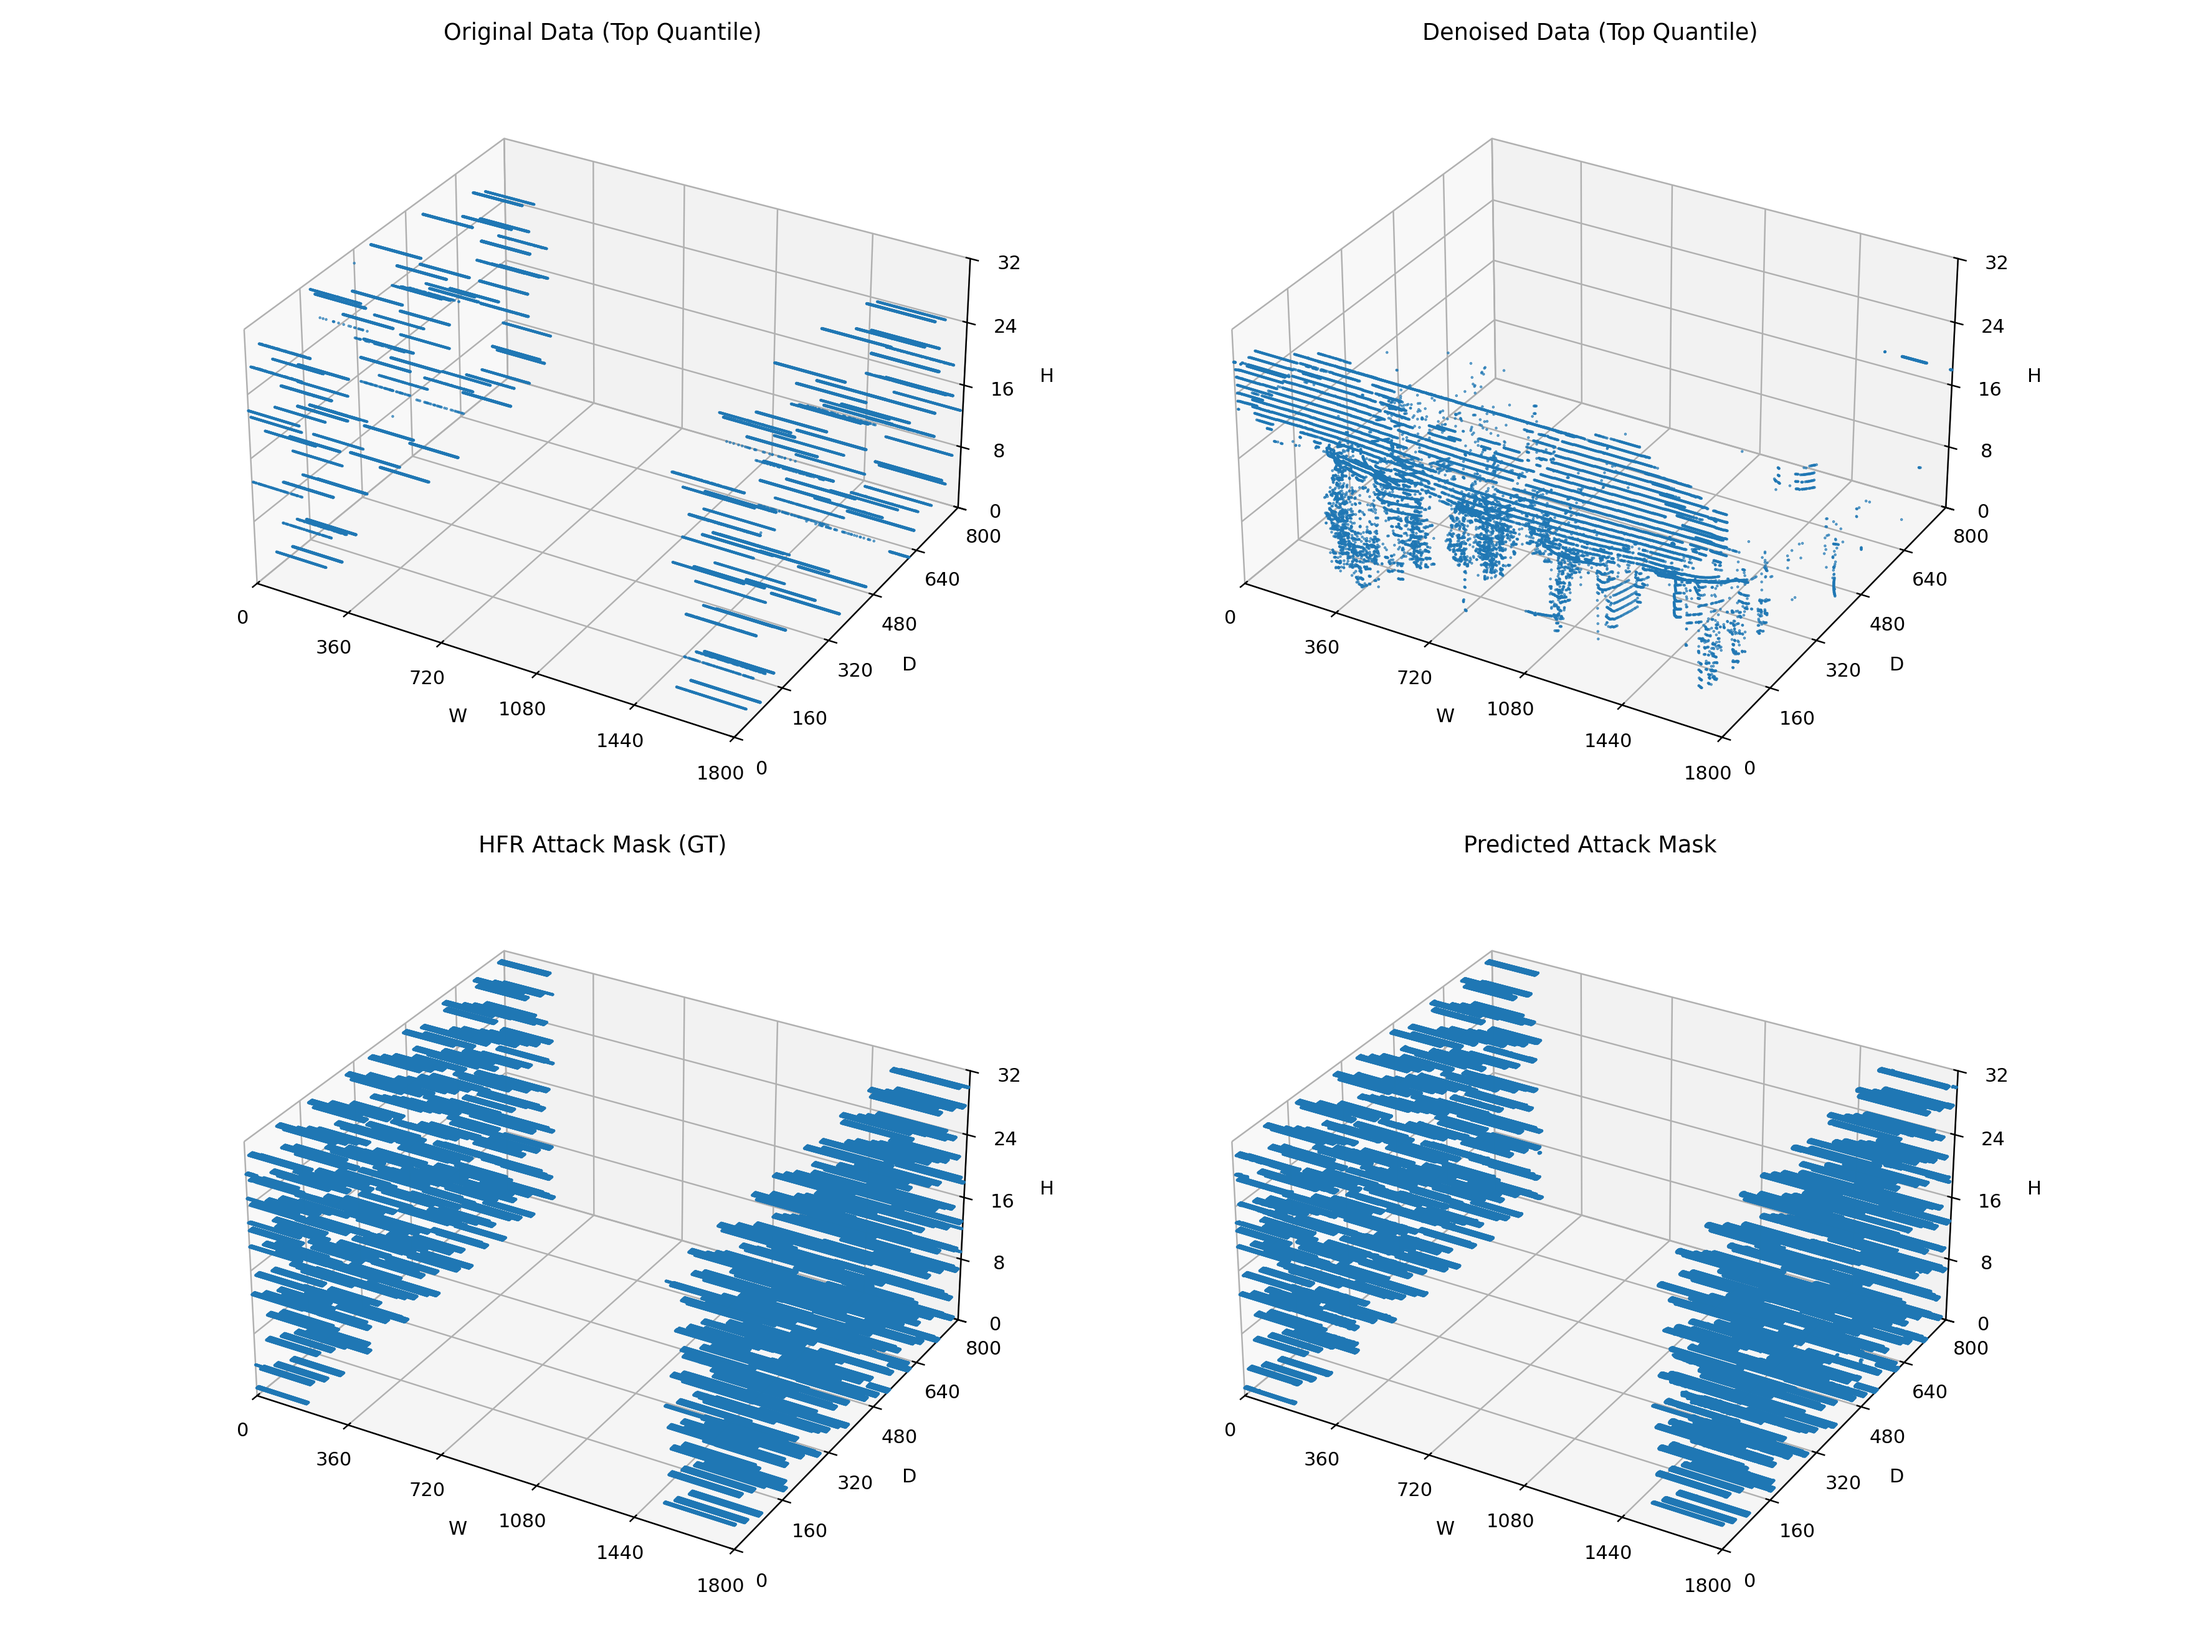
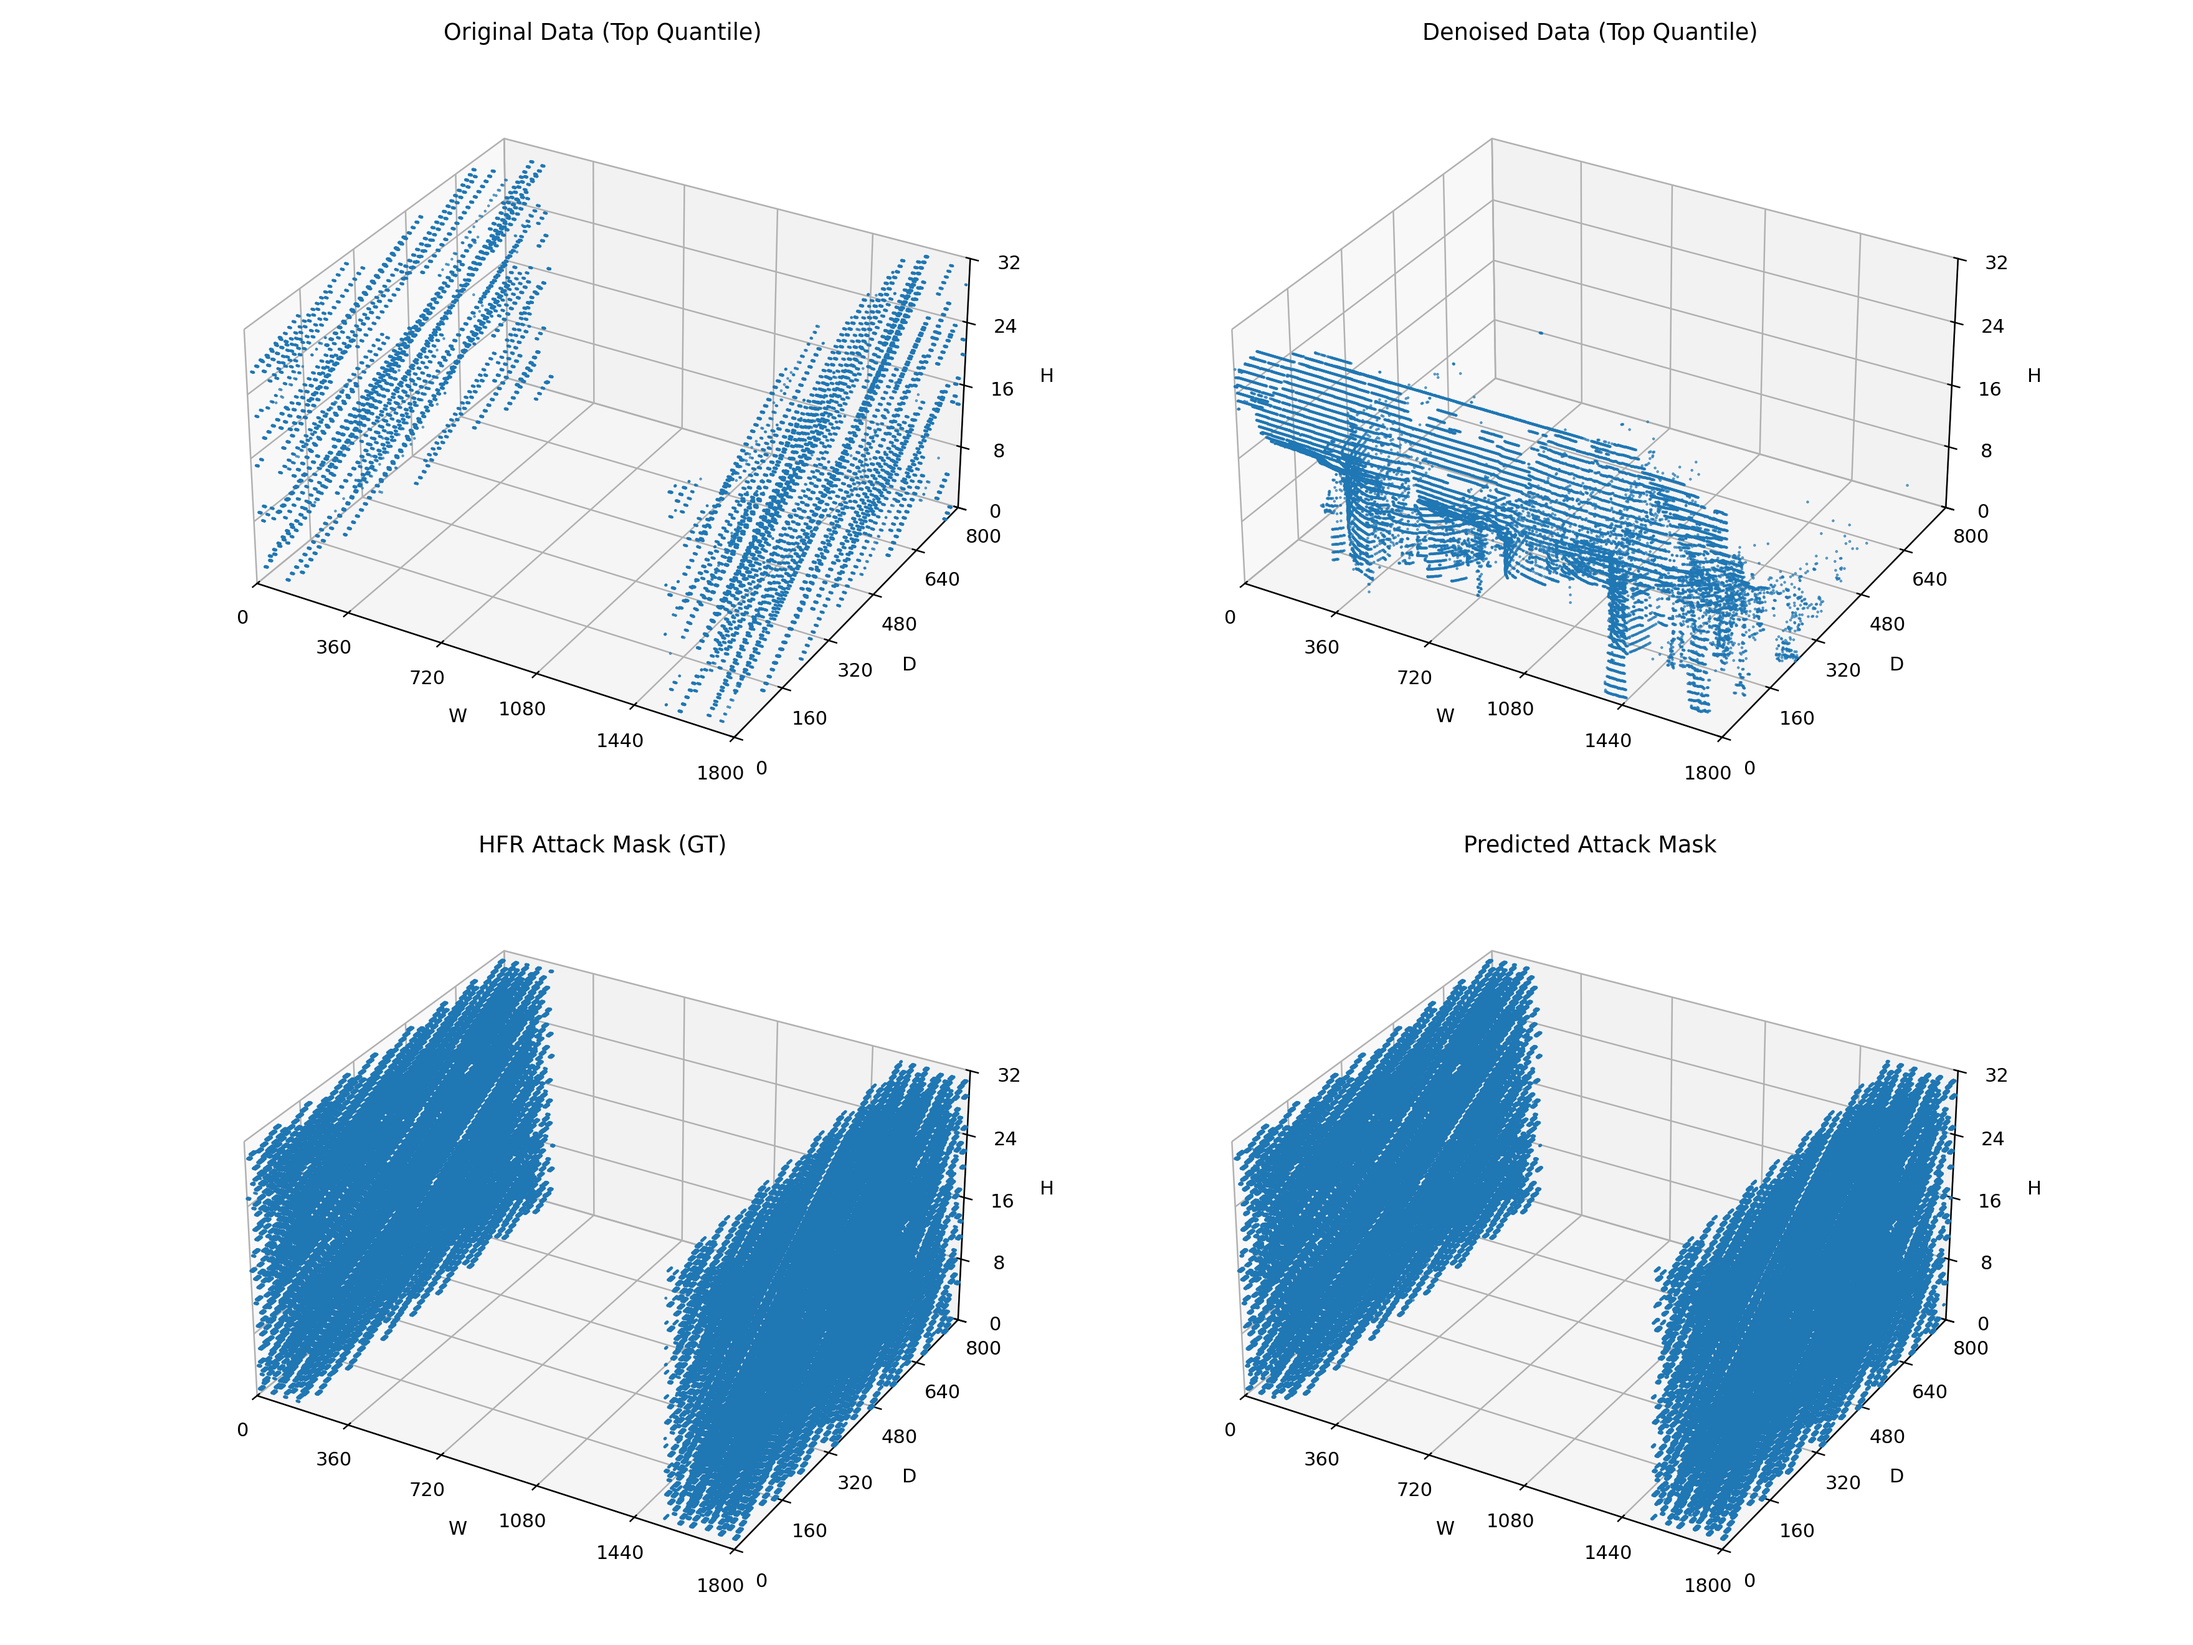
for pipeline

diff --git a/pipeline/denoise_pipeline.py b/pipeline/denoise_pipeline.py
@@ -1,6 +1,10 @@
 import sys
-sys.path.append("/home/zhang/Project/HFR_Denoise")
+import time
+import os
+# Add the parent directory of 'pipeline' (which is HFR_Denoise) to the path
+sys.path.append(os.path.dirname(os.path.dirname(os.path.abspath(__file__))))
 import torch
+import numpy as np
 from model.denoise_model import DenoiseModel
 from utils.utils import *
 from utils.plot_utils import *
@@ -64,33 +68,67 @@ class DenoisePipeline:
         return out, mask
 
 
+def run_denoising(defender: DenoisePipeline, signals: np.ndarray) -> np.ndarray:
+    """
+    Denoises a batch of LiDAR signals.
+    """
+    clean_xs = []
+    total_inference_time = 0.0
+    num_frames = len(signals)
+
+    for i in range(num_frames):
+        print(f"Denoising signal {i + 1}/{num_frames}...")
+        x_np = signals[i]
+        x = torch.from_numpy(x_np).float().unsqueeze(0)
+        x = x.to(defender.device, non_blocking=True)
+
+        inference_start_time = time.time()
+        clean_x, _ = defender.denoise(x)
+        inference_end_time = time.time()
+        total_inference_time += (inference_end_time - inference_start_time)
+
+        clean_x_np = clean_x.squeeze(0).detach().cpu().numpy()
+        clean_xs.append(clean_x_np)
+    
+    if num_frames > 0:
+        avg_inference_time = total_inference_time / num_frames
+        print(f"Average inference time per frame: {avg_inference_time:.4f} seconds")
+
+    return np.array(clean_xs)
+
+
 if __name__ == "__main__":
-    defender = DenoisePipeline(ckpt_path="./run/0923_dn_dim32_lat_attn.pt")
+    import argparse
+    parser = argparse.ArgumentParser(description="Denoise LiDAR signals from an .npz file.")
+    parser.add_argument("--input-npz", type=str, required=True, help="Path to the input .npz file containing 'signals'.")
+    parser.add_argument("--output-npz", type=str, default="denoised_lidar_signals_batch.npz", help="Path to save the output .npz file.")
+    parser.add_argument("--ckpt-path", type=str, required=True, help="Path to the model checkpoint file.")
+    parser.add_argument("--num-frames", type=int, default=None, help="Number of frames to process from the input file.")
 
-    # Prepare Data Here
-    signals, labels = load_data("/data2/yoshida/hist_matrix_test/lidar_signal.npz")
+    args = parser.parse_args()
 
-    x = signals[0]
-    x = torch.from_numpy(x).float().unsqueeze(0)
-    x = x.to(defender.device, non_blocking=True)
+    defender = DenoisePipeline(ckpt_path=args.ckpt_path)
 
-    clean_x, mask = defender.denoise(x)
-    clean_x = clean_x.squeeze(0).detach().cpu().numpy()
-    hfr_mask = mask.squeeze(0).detach().cpu().numpy().astype(np.bool_)
+    print("Loading Data...")
+    data = np.load(args.input_npz)
+    signals = data['signals']
+    offsets = data.get('initial_azimuth_offsets')
+    
+    if args.num_frames:
+        signals = signals[:args.num_frames]
+        if offsets is not None:
+            offsets = offsets[:args.num_frames]
 
-    # Visualization
-    gt_mask = (labels[0] == 2)
-    save_path = "./vis/Denoise_Vis.png"
-    orig_x_np = x.squeeze(0).detach().cpu().numpy()
+    print(f"Loaded {len(signals)} signals.")
 
-    save_3d_panels(
-        orig_data=orig_x_np,
-        denoised_data=clean_x,
-        gt_mask=gt_mask.astype(bool),
-        pred_mask=hfr_mask.astype(bool),
-        save_path=save_path,
-        scale=(1 / 10, 1 / 5, 3.0),
-        quantile=0.999,
-        max_points=None,
-        s=0.2
-    )
+    denoised_signals = run_denoising(defender, signals)
+
+    print(f"Saving {len(denoised_signals)} denoised signals to {args.output_npz}")
+    
+    save_payload = {'signals': denoised_signals}
+    if offsets is not None:
+        save_payload['initial_azimuth_offsets'] = offsets
+        
+    np.savez(args.output_npz, **save_payload)
+
+    print("Done.")

diff --git a/utils/plot_utils.py b/utils/plot_utils.py
@@ -1,4 +1,5 @@
 import os
+from typing import Optional
 import numpy as np
 import matplotlib.pyplot as plt
 from matplotlib.ticker import FuncFormatter
@@ -11,7 +12,7 @@ def save_3d_panels(orig_data: np.ndarray,
                    save_path: str,
                    scale=(1/10, 1/5, 3.0),
                    quantile: float = 0.999,
-                   max_points: int | None = None,
+                   max_points: Optional[int] = None,
                    s: float = 0.2):
 
     H, W, D = orig_data.shape

diff --git a/utils/utils.py b/utils/utils.py
@@ -10,7 +10,8 @@ def load_data(npz_file_path):
     with np.load(npz_file_path) as data:
         hist_matrix = data['signals']          # (N, H, W, D)
         label_matrix = data.get('labels', [None])
-    return hist_matrix, label_matrix
+        offsets = data.get('initial_azimuth_offsets', None)
+    return hist_matrix, label_matrix, offsets
 
 
 # ====== Dataset Class ======
